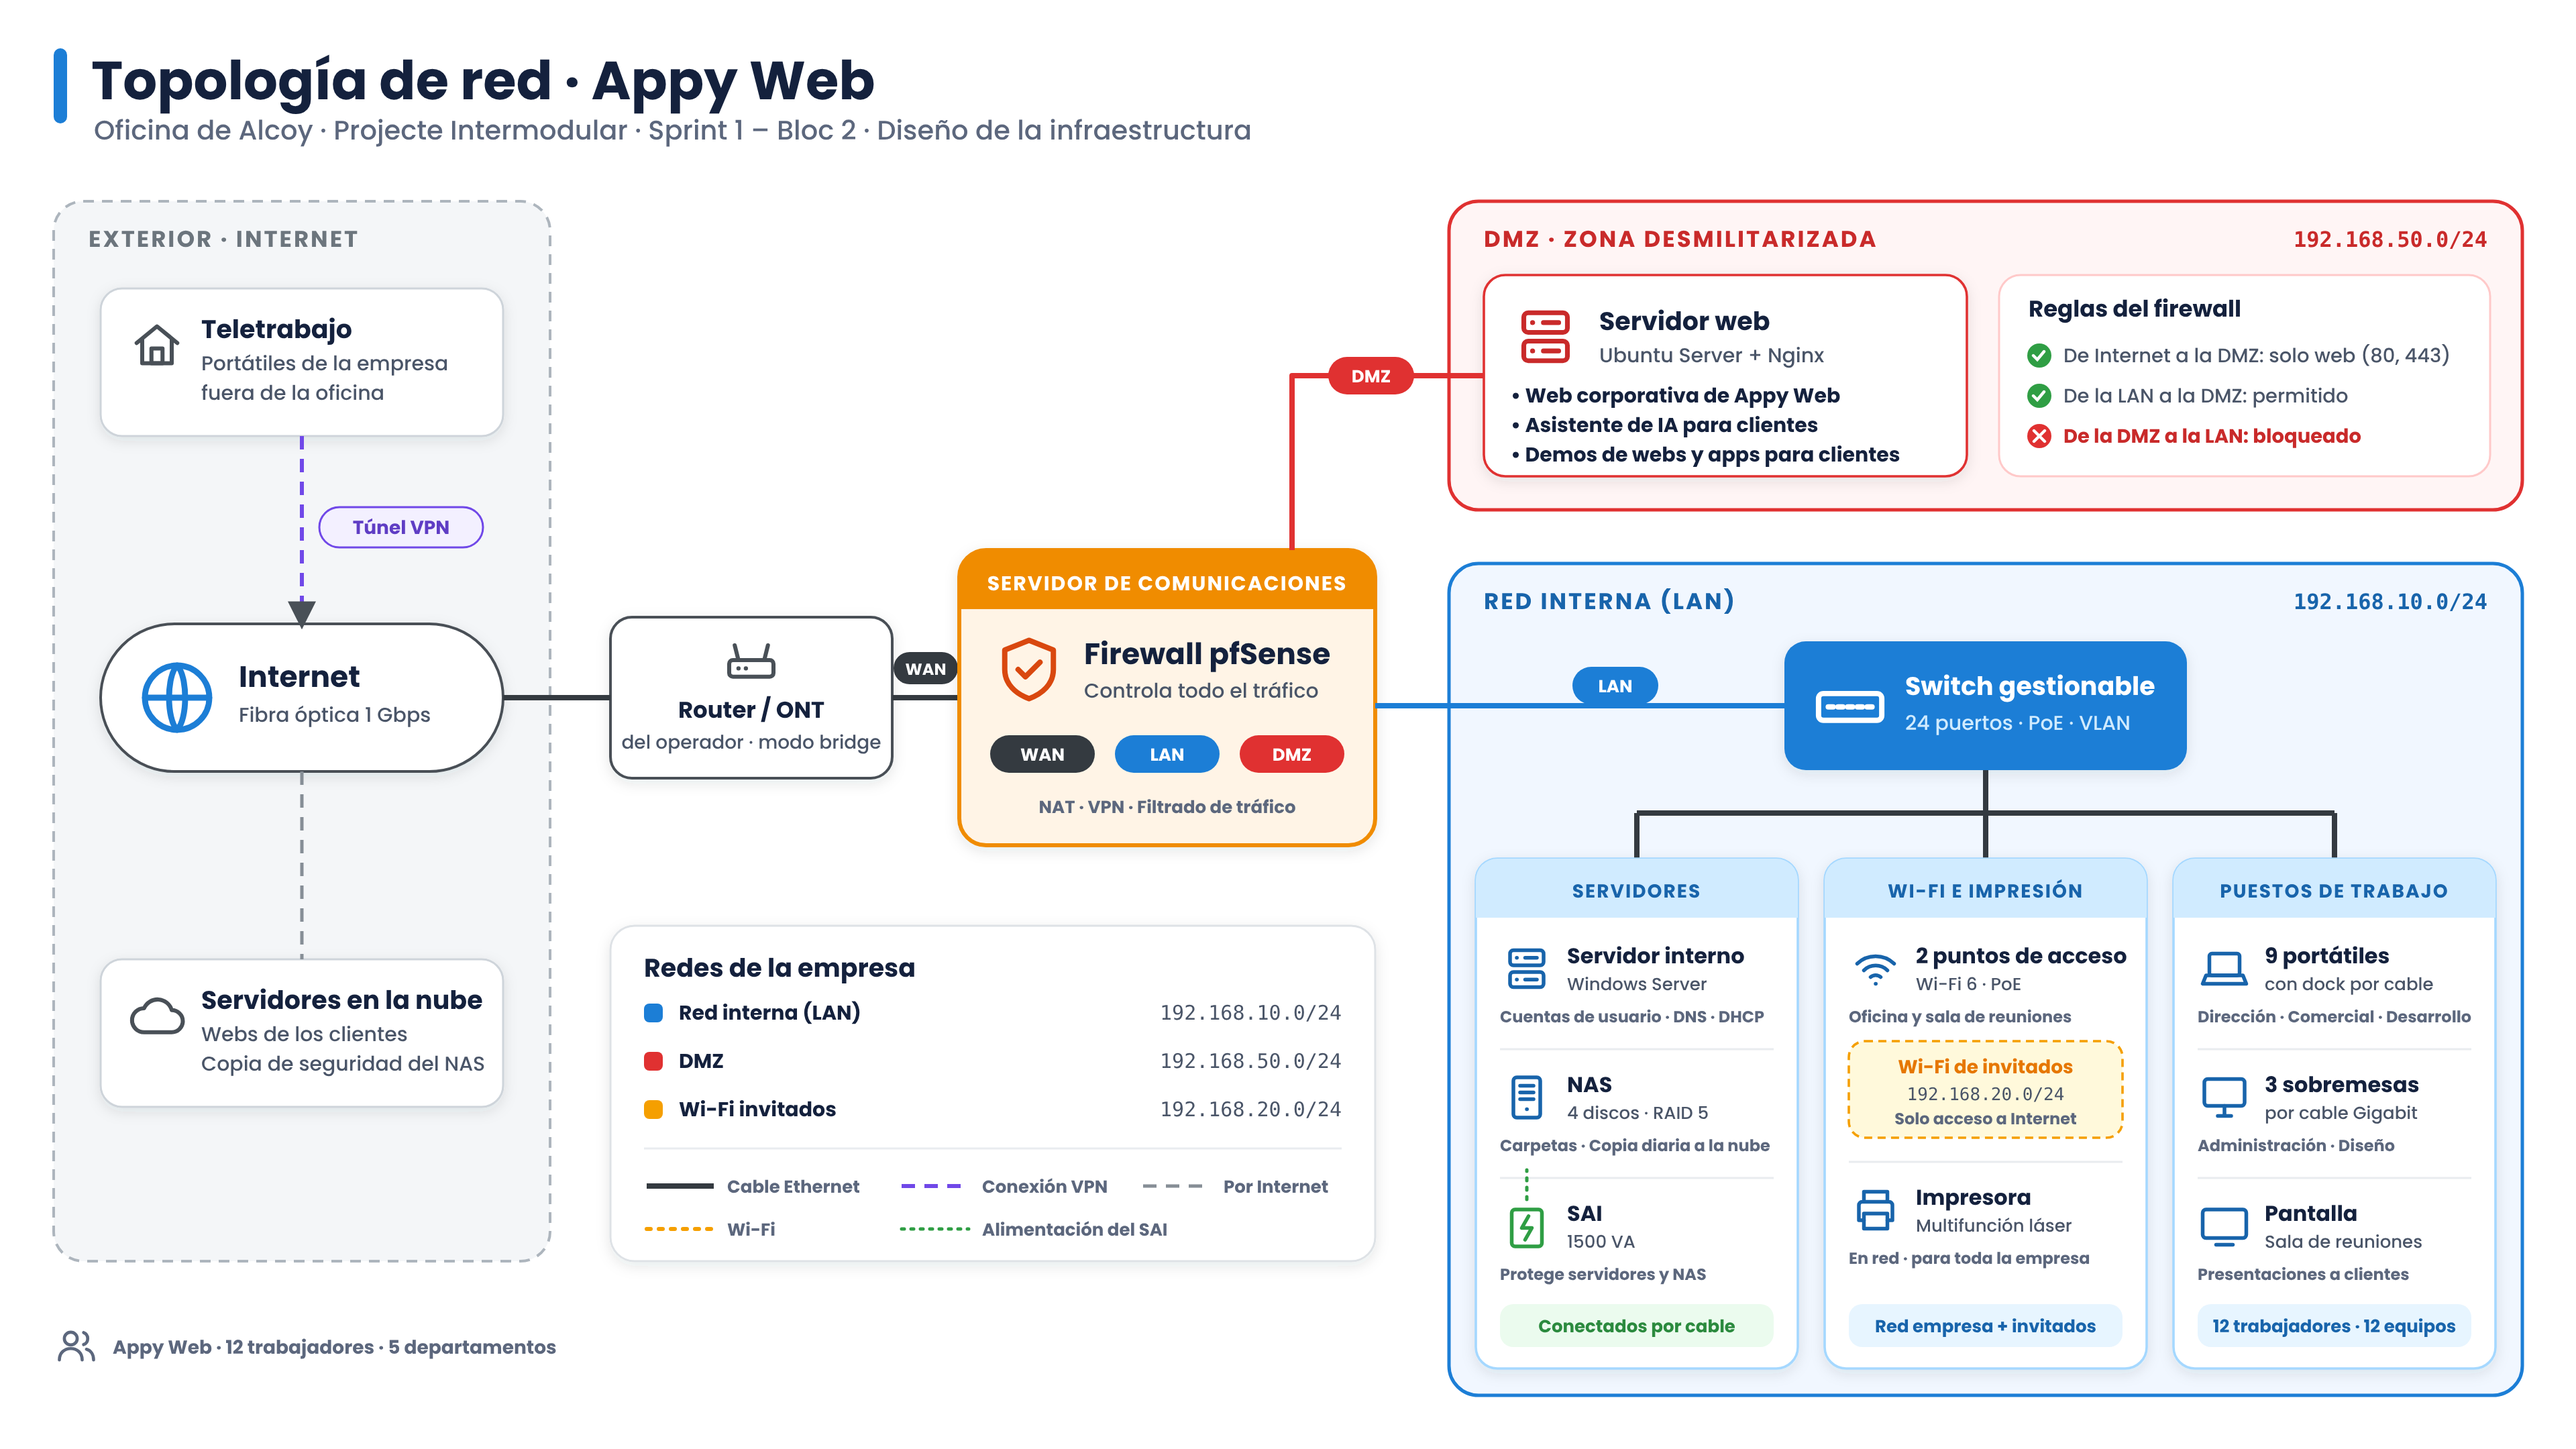
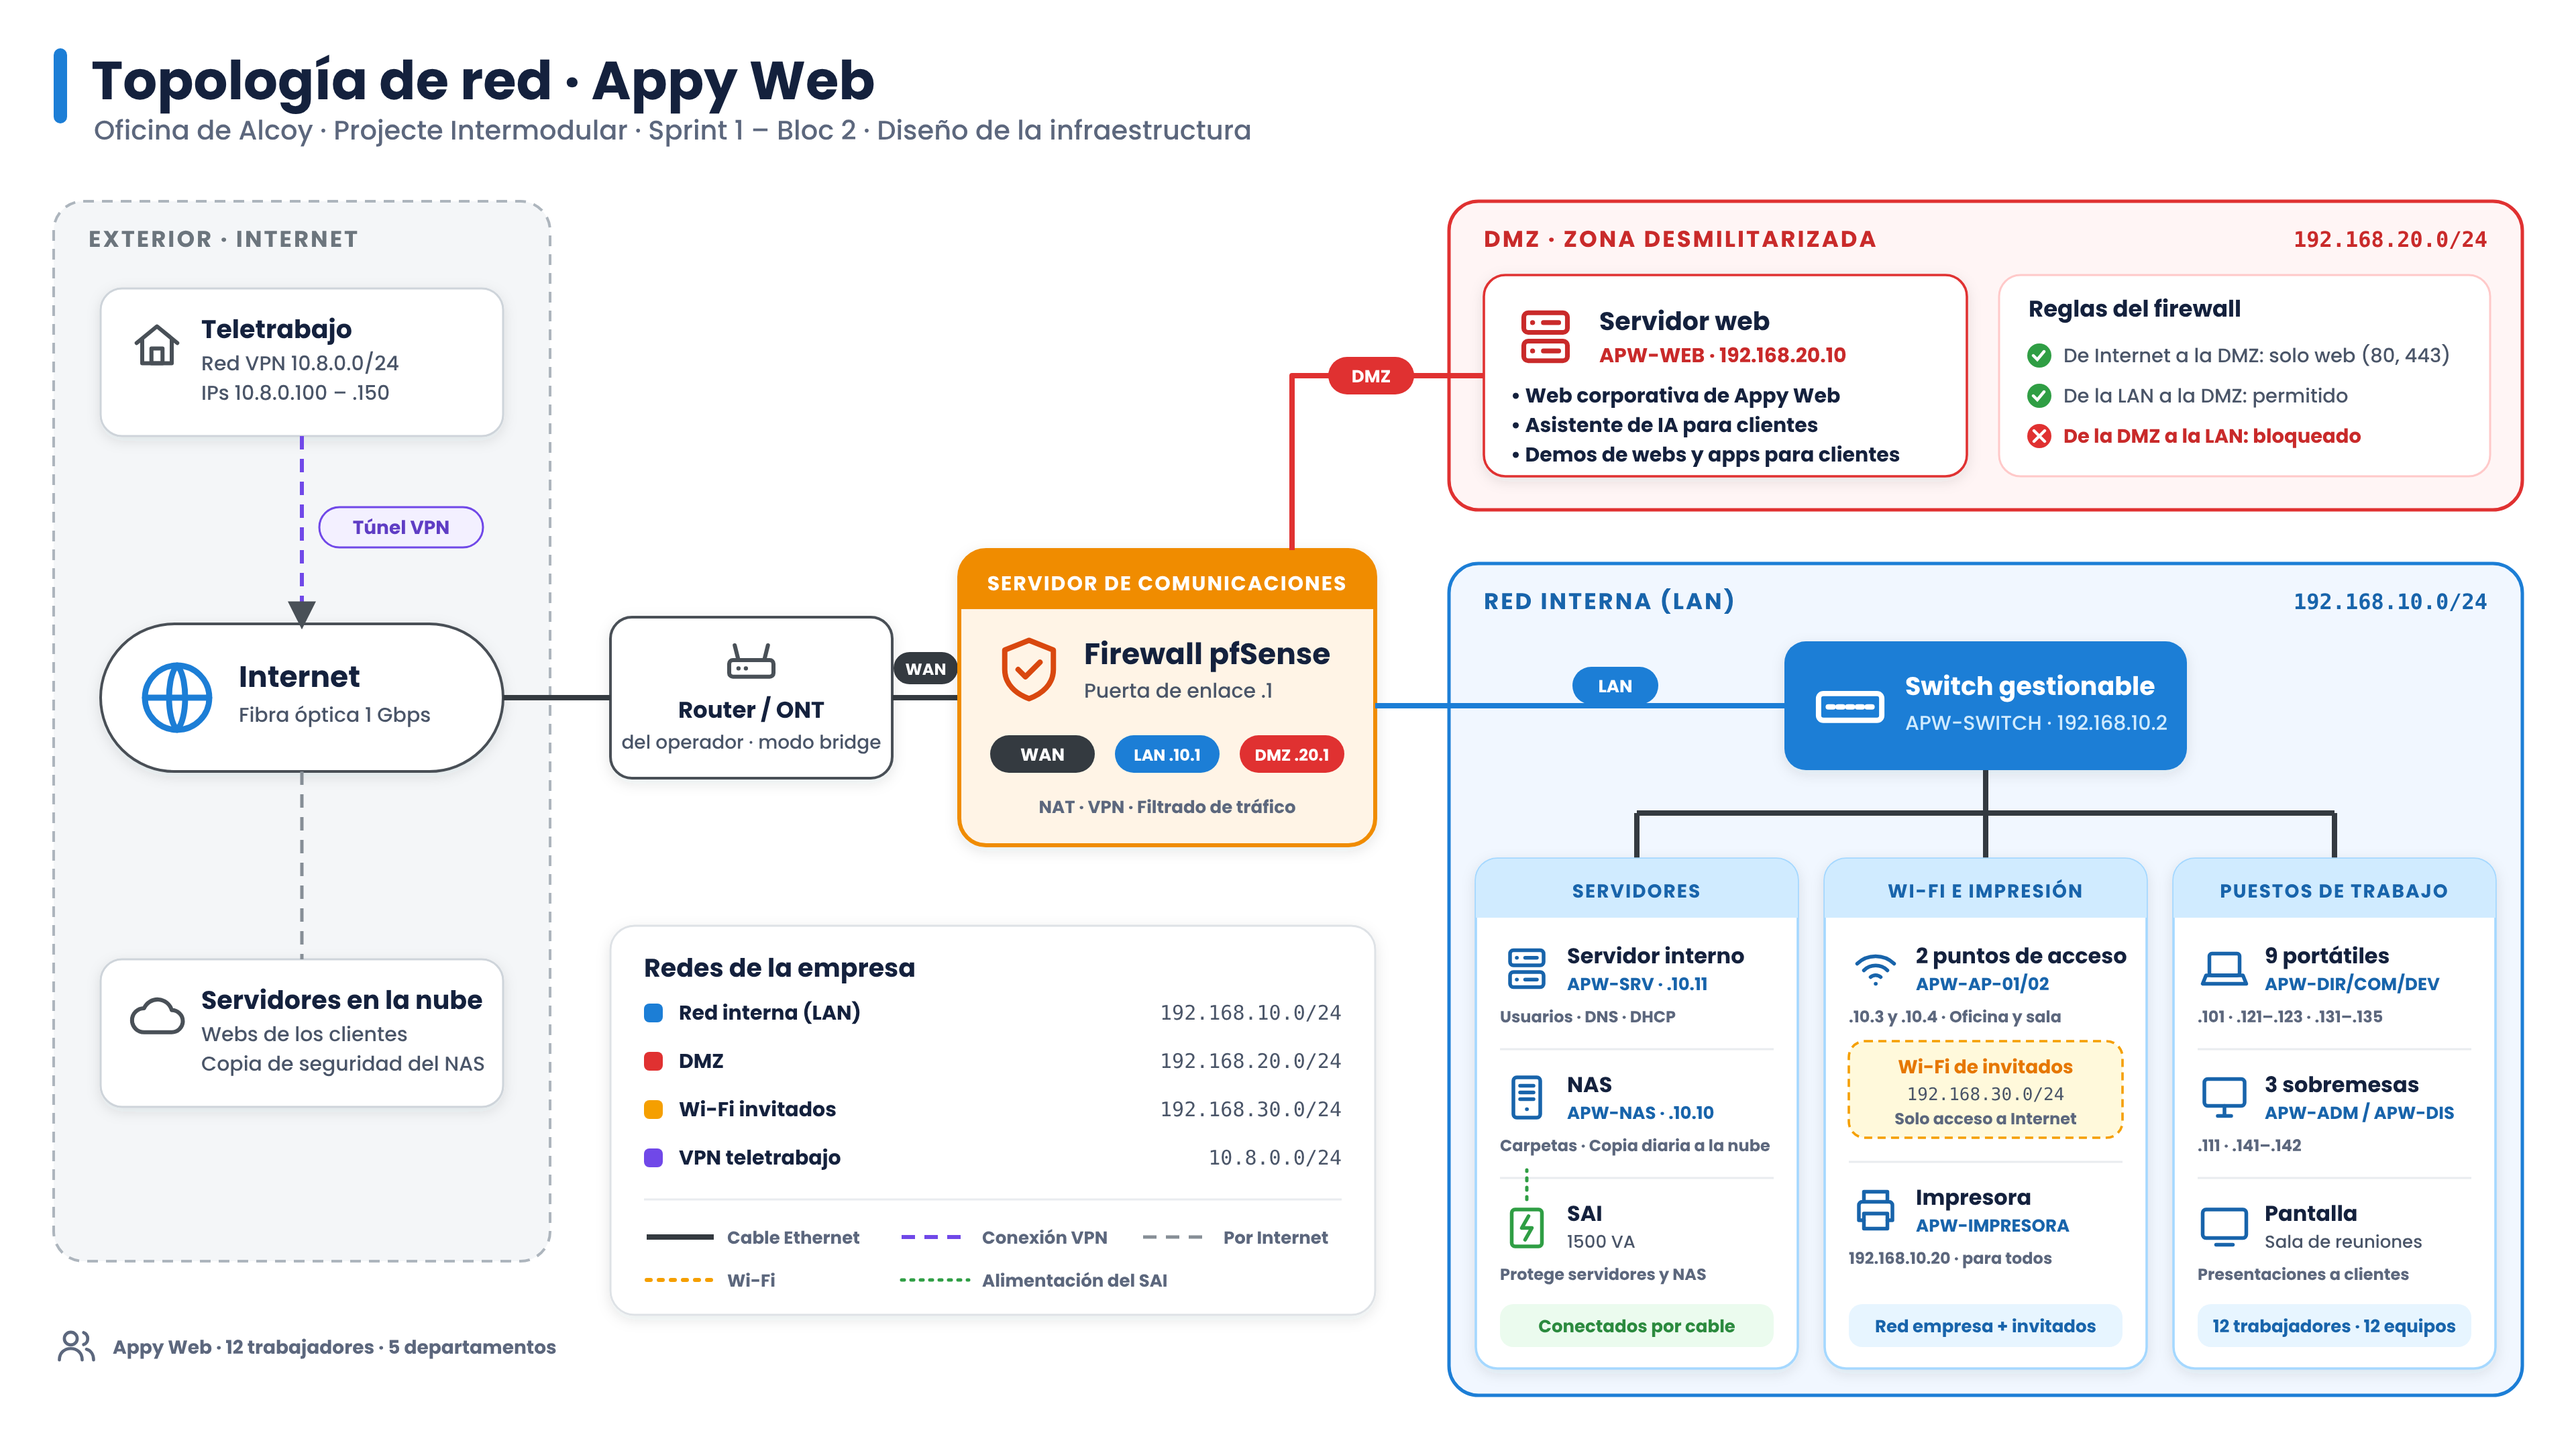
Actualiza 03 y diagrama con el plan de IPs

diff --git a/docs/sprint-1/bloc-2/03-disseny-xarxa.md b/docs/sprint-1/bloc-2/03-disseny-xarxa.md
@@ -12,40 +12,40 @@ La red tiene tres zonas y todas pasan por el servidor de comunicaciones:
 
 - WAN o Internet: es la conexión de fibra del operador.
 - Red interna o LAN, 192.168.10.0/24: aquí están los ordenadores de los trabajadores, los servidores internos, el NAS y la impresora. Desde Internet no se puede entrar directamente.
-- DMZ, 192.168.50.0/24: es una zona aparte donde ponemos lo que tiene que verse desde Internet.
+- DMZ, 192.168.20.0/24: es una zona aparte donde ponemos lo que tiene que verse desde Internet.
 
-Además, la Wi-Fi de invitados va en otra red separada, la 192.168.20.0/24, para que los clientes solo tengan Internet.
+Además, la Wi-Fi de invitados va en otra red separada, la 192.168.30.0/24, para que los clientes solo tengan Internet. Los trabajadores que se conectan desde fuera usan la red VPN 10.8.0.0/24. Todas las direcciones IP y los nombres de los equipos están en el apartado 4.
 
 ## Componentes y su función
 
 | Componente | Función |
 |---|---|
 | Router/ONT del operador | Recibe la fibra. Lo dejamos en modo bridge para que quien controle la red sea nuestro servidor de comunicaciones. |
-| Servidor de comunicaciones, firewall pfSense | Es el centro de la red. Tiene tres interfaces, WAN, LAN y DMZ, y decide qué tráfico puede pasar entre ellas. También hace NAT, da la VPN a los que teletrabajan y filtra las conexiones. |
-| Servidor web en la DMZ | Aloja la web corporativa, el asistente de IA que responde a los clientes y las demos de las webs y apps que enseñamos a los clientes antes de publicarlas. |
-| Switch gestionable de 24 puertos | Conecta por cable todos los equipos de la red interna. Al ser gestionable permite crear VLAN, como la de invitados. |
-| Servidor interno | Gestiona las cuentas de usuario, el DNS y el DHCP de la red interna. |
-| NAS | Guarda los archivos compartidos de los departamentos y hace las copias de seguridad. Cada noche envía una copia cifrada a la nube, que es la solución híbrida que elegimos en el apartado 2. |
-| 2 puntos de acceso Wi-Fi 6 | Dan Wi-Fi a la oficina y a la sala de reuniones. Emiten dos redes, la de la empresa y la de invitados. |
-| Impresora multifunción | Impresora en red para toda la empresa. |
+| Servidor de comunicaciones, firewall pfSense | Es el centro de la red y la puerta de enlace de todas las redes, con la dirección .1 en cada una. Tiene tres interfaces, WAN, LAN y DMZ, y decide qué tráfico puede pasar entre ellas. También hace NAT, da la VPN a los que teletrabajan y filtra las conexiones. |
+| Servidor web APW-WEB, 192.168.20.10 | Está en la DMZ y aloja la web corporativa, el asistente de IA que responde a los clientes y las demos de las webs y apps que enseñamos a los clientes antes de publicarlas. |
+| Switch gestionable APW-SWITCH, 192.168.10.2 | Tiene 24 puertos y conecta por cable todos los equipos de la red interna. Al ser gestionable permite crear VLAN, como la de invitados. |
+| Servidor interno APW-SRV, 192.168.10.11 | Gestiona las cuentas de usuario, el DNS y el DHCP de la red interna. |
+| NAS APW-NAS, 192.168.10.10 | Guarda los archivos compartidos de los departamentos y hace las copias de seguridad. Cada noche envía una copia cifrada a la nube, que es la solución híbrida que elegimos en el apartado 2. |
+| Puntos de acceso APW-AP-01 y APW-AP-02, 192.168.10.3 y 192.168.10.4 | Son Wi-Fi 6 y dan Wi-Fi a la oficina y a la sala de reuniones. Emiten dos redes, la de la empresa y la de invitados. |
+| Impresora APW-IMPRESORA, 192.168.10.20 | Impresora multifunción en red para toda la empresa. |
 | SAI | Mantiene encendidos los servidores y el NAS si se va la luz, el tiempo justo para apagarlos bien. |
-| Ordenadores | 3 sobremesas de Administración y Diseño conectados por cable y 9 portátiles con dock para Dirección, Comercial y Desarrollo. |
+| Ordenadores | 3 sobremesas de Administración y Diseño conectados por cable y 9 portátiles con dock para Dirección, Comercial y Desarrollo. Cada departamento tiene su propio bloque de IPs a partir de la 192.168.10.101. |
 
 ## Conexiones
 
 - La fibra llega al router del operador y de ahí va al puerto WAN del servidor de comunicaciones.
 - El puerto DMZ del servidor de comunicaciones va directo al servidor web.
 - El puerto LAN va al switch, y del switch salen los cables a todos los equipos de la oficina y a los dos puntos de acceso.
-- Los trabajadores que están fuera se conectan por VPN a través de Internet y entran a la red interna como si estuvieran en la oficina.
+- Los trabajadores que están fuera se conectan por VPN a través de Internet. Reciben una IP de la red 10.8.0.0/24 y entran a la red interna como si estuvieran en la oficina.
 - Las webs y apps de los clientes que ya están publicadas siguen en los servidores en la nube, como dijimos en el Bloc 1.
 - El NAS sale a Internet a través del firewall para enviar cada noche la copia de seguridad a la nube. Así, si hay un incendio, un robo o un ataque de ransomware en la oficina, los datos siguen a salvo fuera.
 
 ## Decisiones técnicas
 
 - Usamos un firewall con tres interfaces en lugar del router del operador, porque un router normal no permite crear una DMZ de verdad ni configurar bien la VPN.
-- Ponemos la DMZ en una red distinta. Así, si atacan el servidor web, el atacante no está dentro de nuestra red interna.
+- Ponemos la DMZ en una red distinta, la 192.168.20.0/24. Así, si atacan el servidor web, el atacante no está dentro de nuestra red interna.
 - Conectamos por cable los equipos que más datos mueven, que son los de Diseño, los portátiles de Desarrollo con su dock, el NAS y los servidores, porque el cable es más rápido y estable que la Wi-Fi.
-- Separamos la Wi-Fi de invitados, porque los clientes que vienen a la oficina no tienen que poder ver nuestros archivos.
+- Separamos la Wi-Fi de invitados en la red 192.168.30.0/24, porque los clientes que vienen a la oficina no tienen que poder ver nuestros archivos.
 
 ## Qué servicios van en la DMZ y por qué
 
